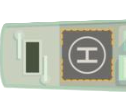
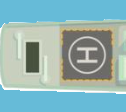
Ensure hit is still shown with image and ship styling removed when computer hits

diff --git a/assets/js/game.js b/assets/js/game.js
@@ -203,6 +203,17 @@ export function computerAttack() {
 
         if (isShipAtCell(targetCell, playerShips)) {
             console.log(`Computer hit your ship at ${targetCell}!`);
+            // Remove ship graphic before applying hit graphic
+            document.getElementById(`${targetCell}`).classList.remove(
+                "ship-segment",
+                "ship-horizontal-front",
+                "ship-horizontal-middle",
+                "ship-horizontal-back",
+                "ship-vertical-front",
+                "ship-vertical-middle",
+                "ship-vertical-back"
+            );
+            document.getElementById(`${targetCell}`).style.backgroundColor = 'rgb(102, 187, 216)';
             document.getElementById(`${targetCell}`).classList.add("hit-cell");
             hitCounterComputer++;
             console.log(`Computer has hit ${hitCounterComputer} cells!`);
